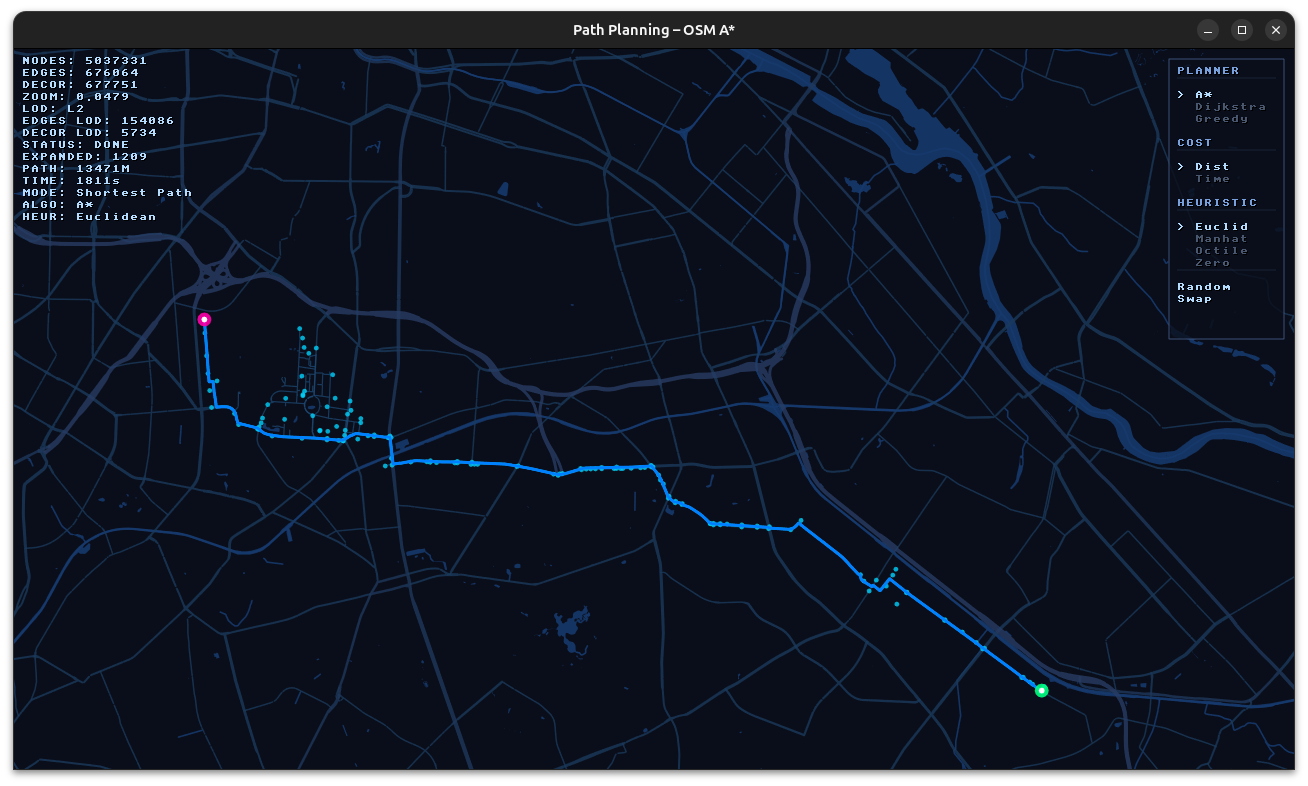
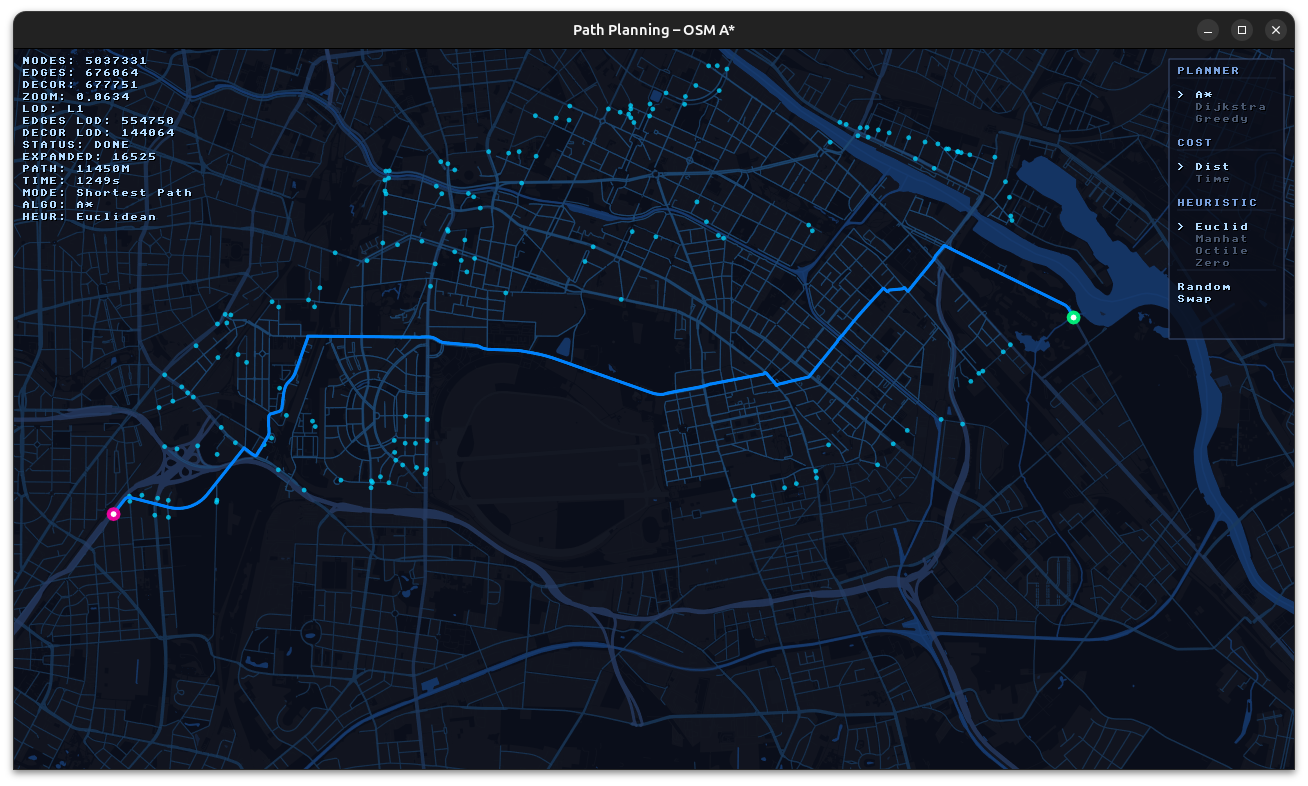
Fix heuristic overestimation from Web Mercator projection
Before:
- Euclidean/Manhattan/Octile computed on Web Mercator world_pos
- Stretched by 1/cos(lat) causing inadmissible heuristic and suboptimal A* paths

After:
- Scale Mercator deltas by cos(mean_lat) to get ground meters

Why:
- A* requires admissible heuristic; overestimation produces wrong shortest path
- At Berlin (~52°N) Mercator distance is ~1.62× larger than ground distance

Changed region(s): [[0.0, 0.0611, 1.0, 0.9771], [0.9786, 0.2137, 1.0, 0.2443]]

diff --git a/src/planner/heuristic.rs b/src/planner/heuristic.rs
@@ -46,8 +46,14 @@ impl Heuristic {
         }
         let p1 = graph.nodes[from].world_pos;
         let p2 = graph.nodes[to].world_pos;
-        let dx = (p1[0] - p2[0]).abs();
-        let dy = (p1[1] - p2[1]).abs();
+        // world_pos is Web Mercator, which stretches distances by 1/cos(lat).
+        // Scale back by cos(mean_lat) to get ground meters — otherwise the
+        // heuristic overestimates and A* returns suboptimal paths.
+        let mean_lat_rad =
+            0.5 * (graph.nodes[from].lat_lon[0] + graph.nodes[to].lat_lon[0]).to_radians();
+        let scale = mean_lat_rad.cos();
+        let dx = (p1[0] - p2[0]).abs() * scale;
+        let dy = (p1[1] - p2[1]).abs() * scale;
 
         let dist_m = match self {
             Heuristic::Zero => 0.0,
